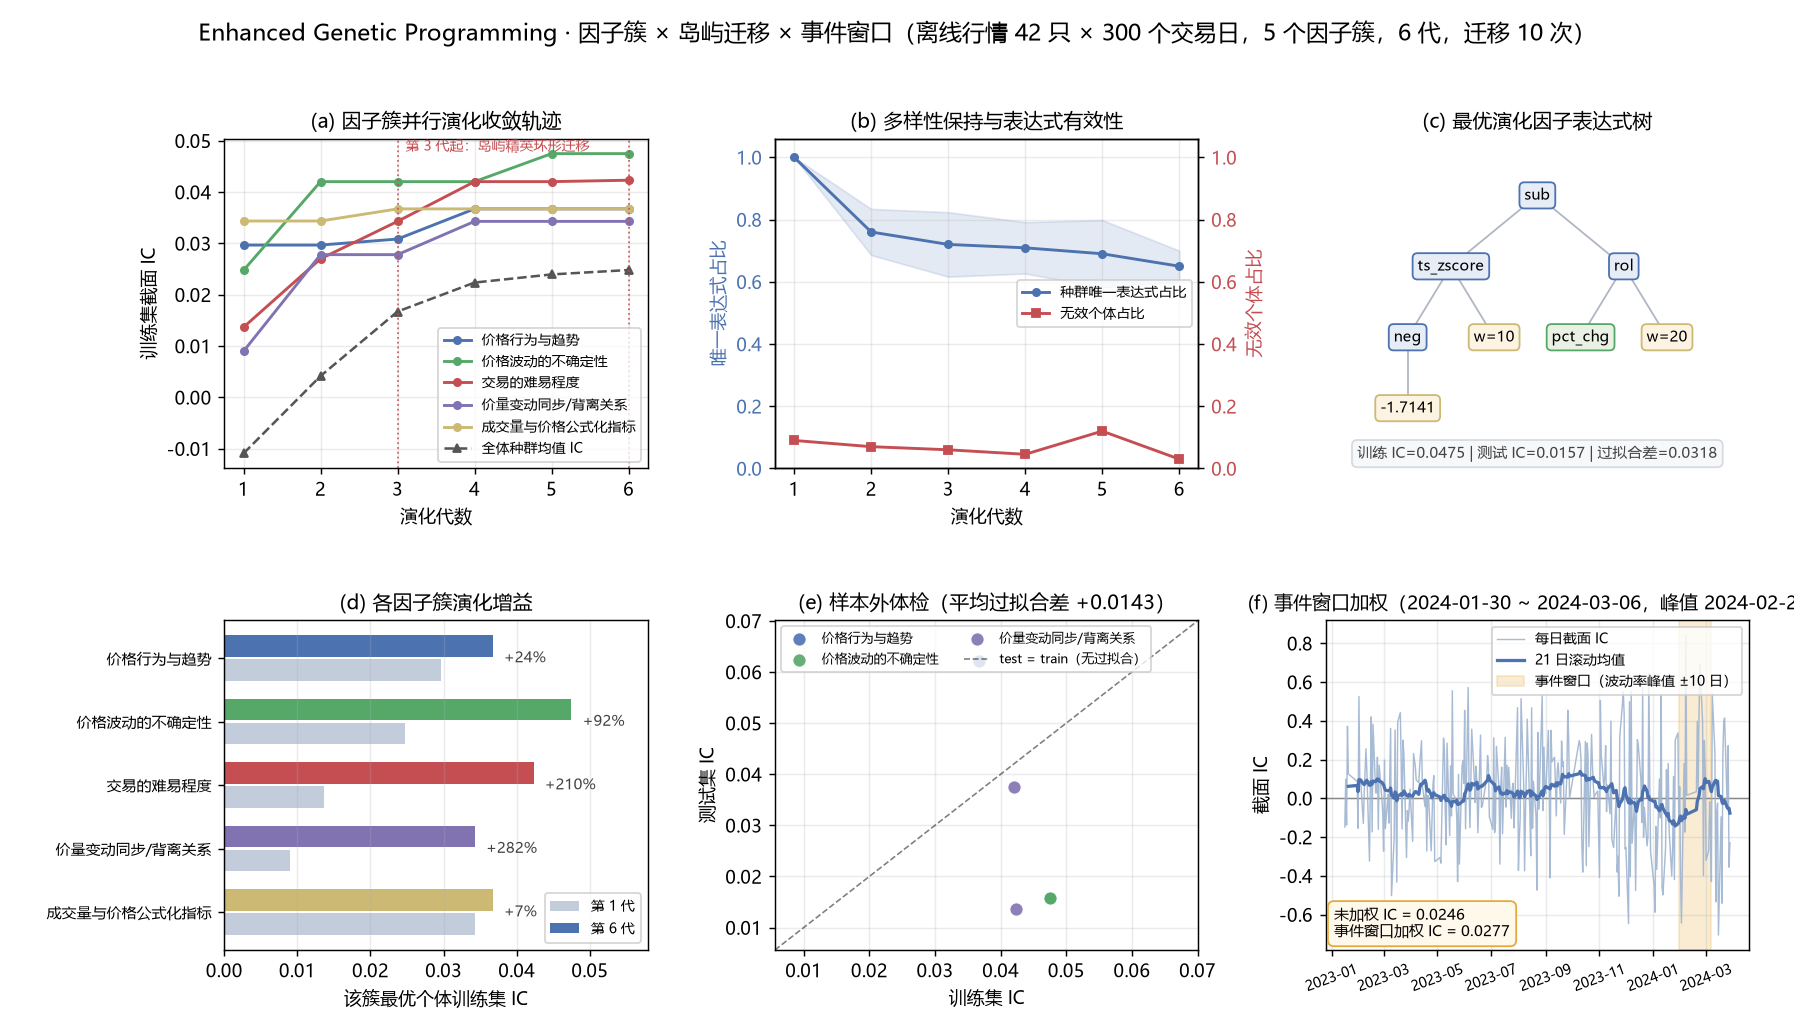
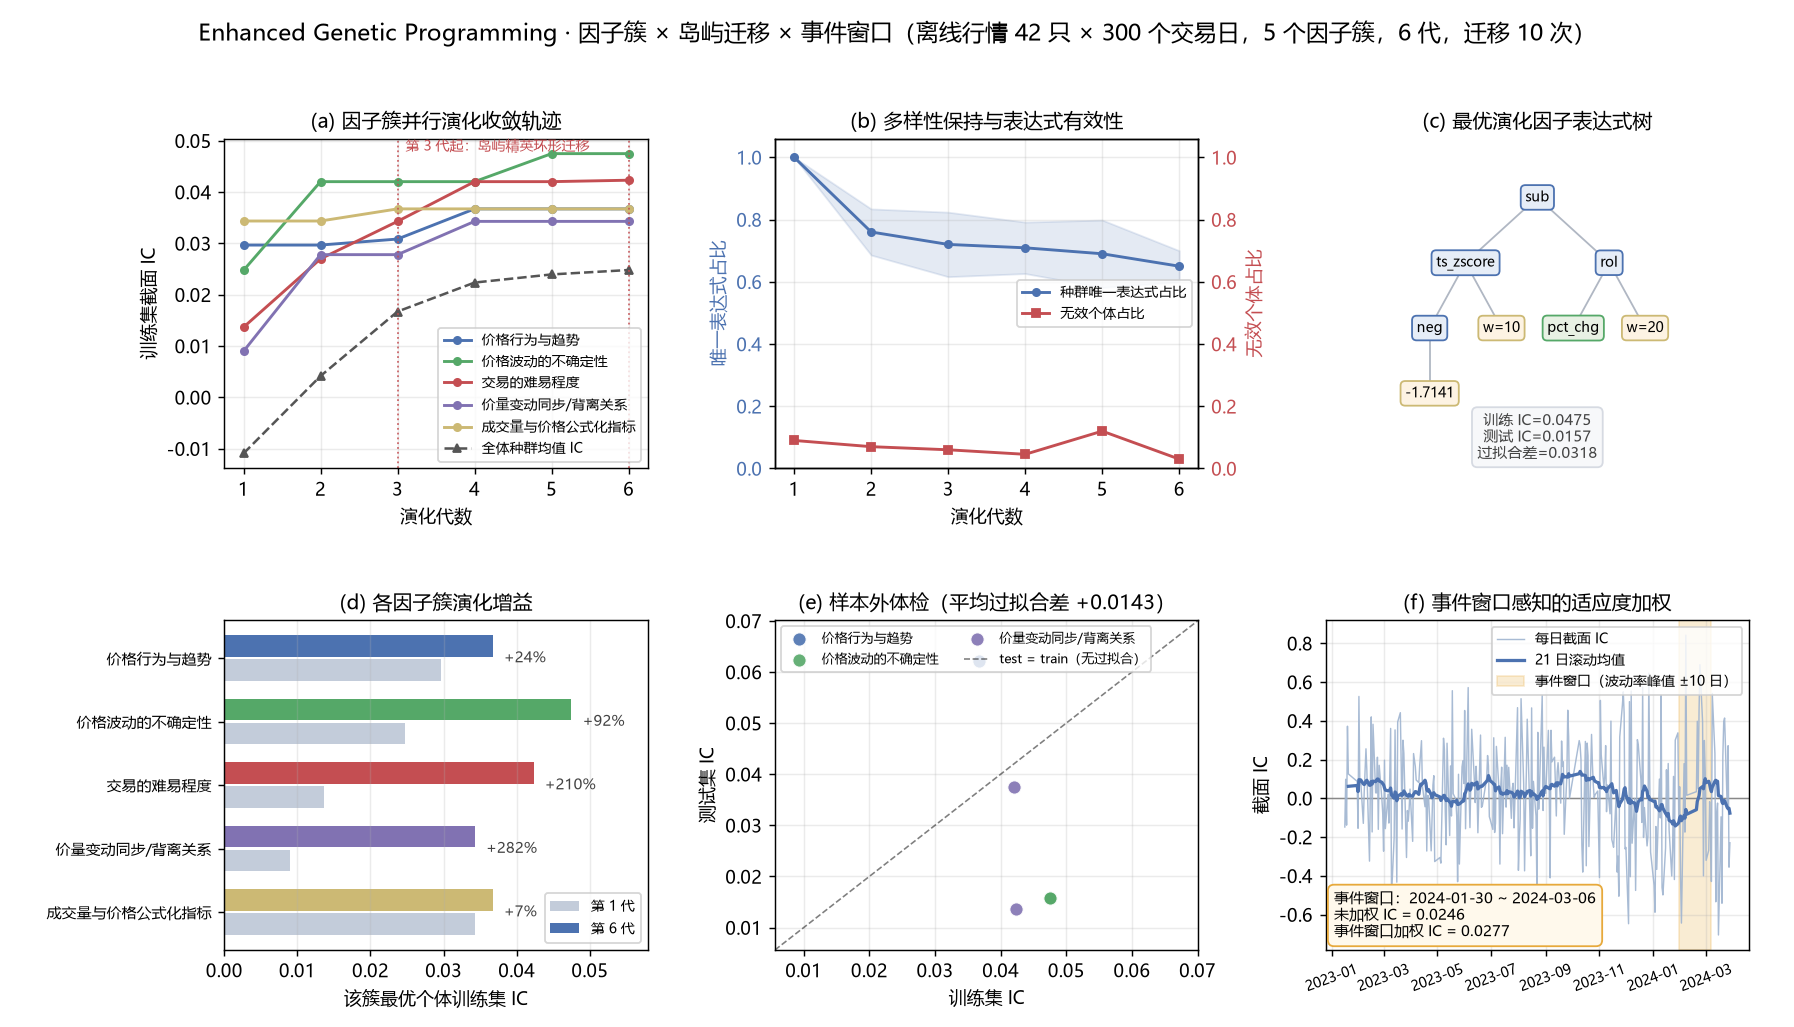
fix(docs): prevent text truncation in feature_gp_evolution.png

diff --git a/scripts/gen_feature_charts.py b/scripts/gen_feature_charts.py
@@ -211,14 +211,15 @@ def _draw_expr_tree(ax, expr, caption: str = "") -> None:
         else:
             fc, ec = "#E6EDF7", "#4C72B0"
         ax.text(xs[n["idx"]], -n["depth"], n["label"], ha="center", va="center",
-                fontsize=8.5, zorder=2,
+                fontsize=8.0, zorder=2,
                 bbox=dict(boxstyle="round,pad=0.32", fc=fc, ec=ec, lw=1.0))
     depth_max = max(n["depth"] for n in nodes)
-    ax.set_xlim(-0.95, seq[0] - 0.05)
-    ax.set_ylim(-depth_max - 0.85, 0.8)
+    ax.set_xlim(-1.45, seq[0] + 0.45)
+    ax.set_ylim(-depth_max - 1.15, 0.9)
     ax.axis("off")
     ax.set_title("(c) 最优演化因子表达式树", fontsize=11)
     if caption:
+        caption = caption.replace(" | ", "\n")
         ax.text(0.5, 0.02, caption, transform=ax.transAxes, ha="center", va="bottom",
                 fontsize=8.5, color="#444",
                 bbox=dict(boxstyle="round,pad=0.35", fc="#F7F8FA", ec="#D6DAE2"))
@@ -374,13 +375,13 @@ def fig_gp_evolution() -> None:
         plain = evolver._fitness(best_expr, evolver.df)
         evolver._event_windows = saved
         weighted = evolver._fitness(best_expr, evolver.df)
+        win_note = f"{ew_start} ~ {ew_end}"
         ax.text(0.02, 0.03,
-                f"未加权 IC = {plain:.4f}\n事件窗口加权 IC = {weighted:.4f}",
+                f"事件窗口：{win_note}\n未加权 IC = {plain:.4f}\n事件窗口加权 IC = {weighted:.4f}",
                 transform=ax.transAxes, va="bottom", fontsize=8.5,
                 bbox=dict(boxstyle="round,pad=0.4", fc="#FFF9EC", ec="#E7A93B"))
         ax.legend(loc="upper right", fontsize=7.5)
-    peak_note = f"，峰值 {vol_peak}" if vol_peak else ""
-    ax.set_title(f"(f) 事件窗口加权（{ew_start} ~ {ew_end}{peak_note}）", fontsize=10.5)
+    ax.set_title("(f) 事件窗口感知的适应度加权", fontsize=11)
     ax.set_ylabel("截面 IC")
     ax.tick_params(axis="x", labelsize=7.5, rotation=20)
     ax.grid(alpha=0.25)
